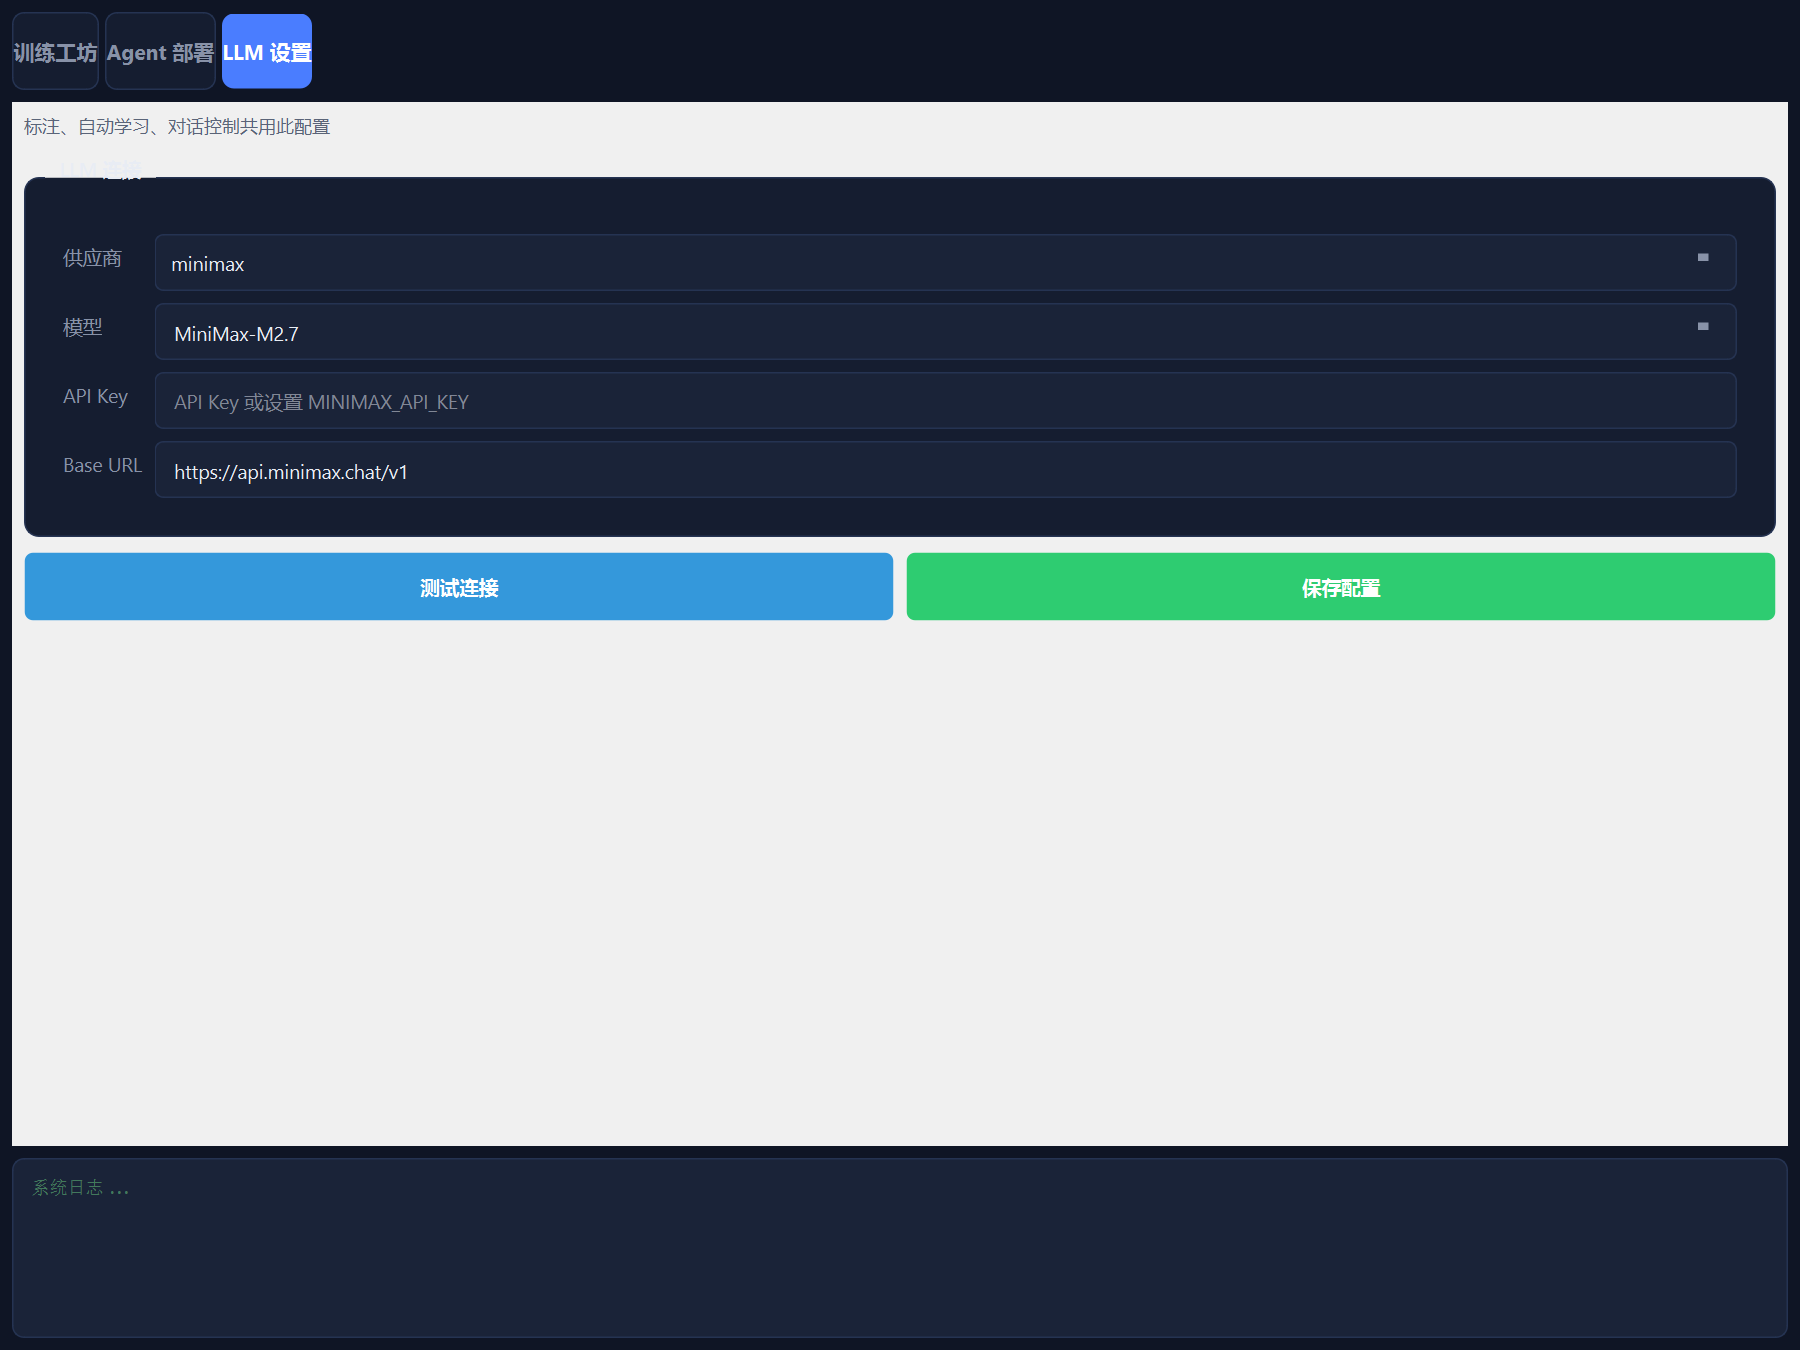
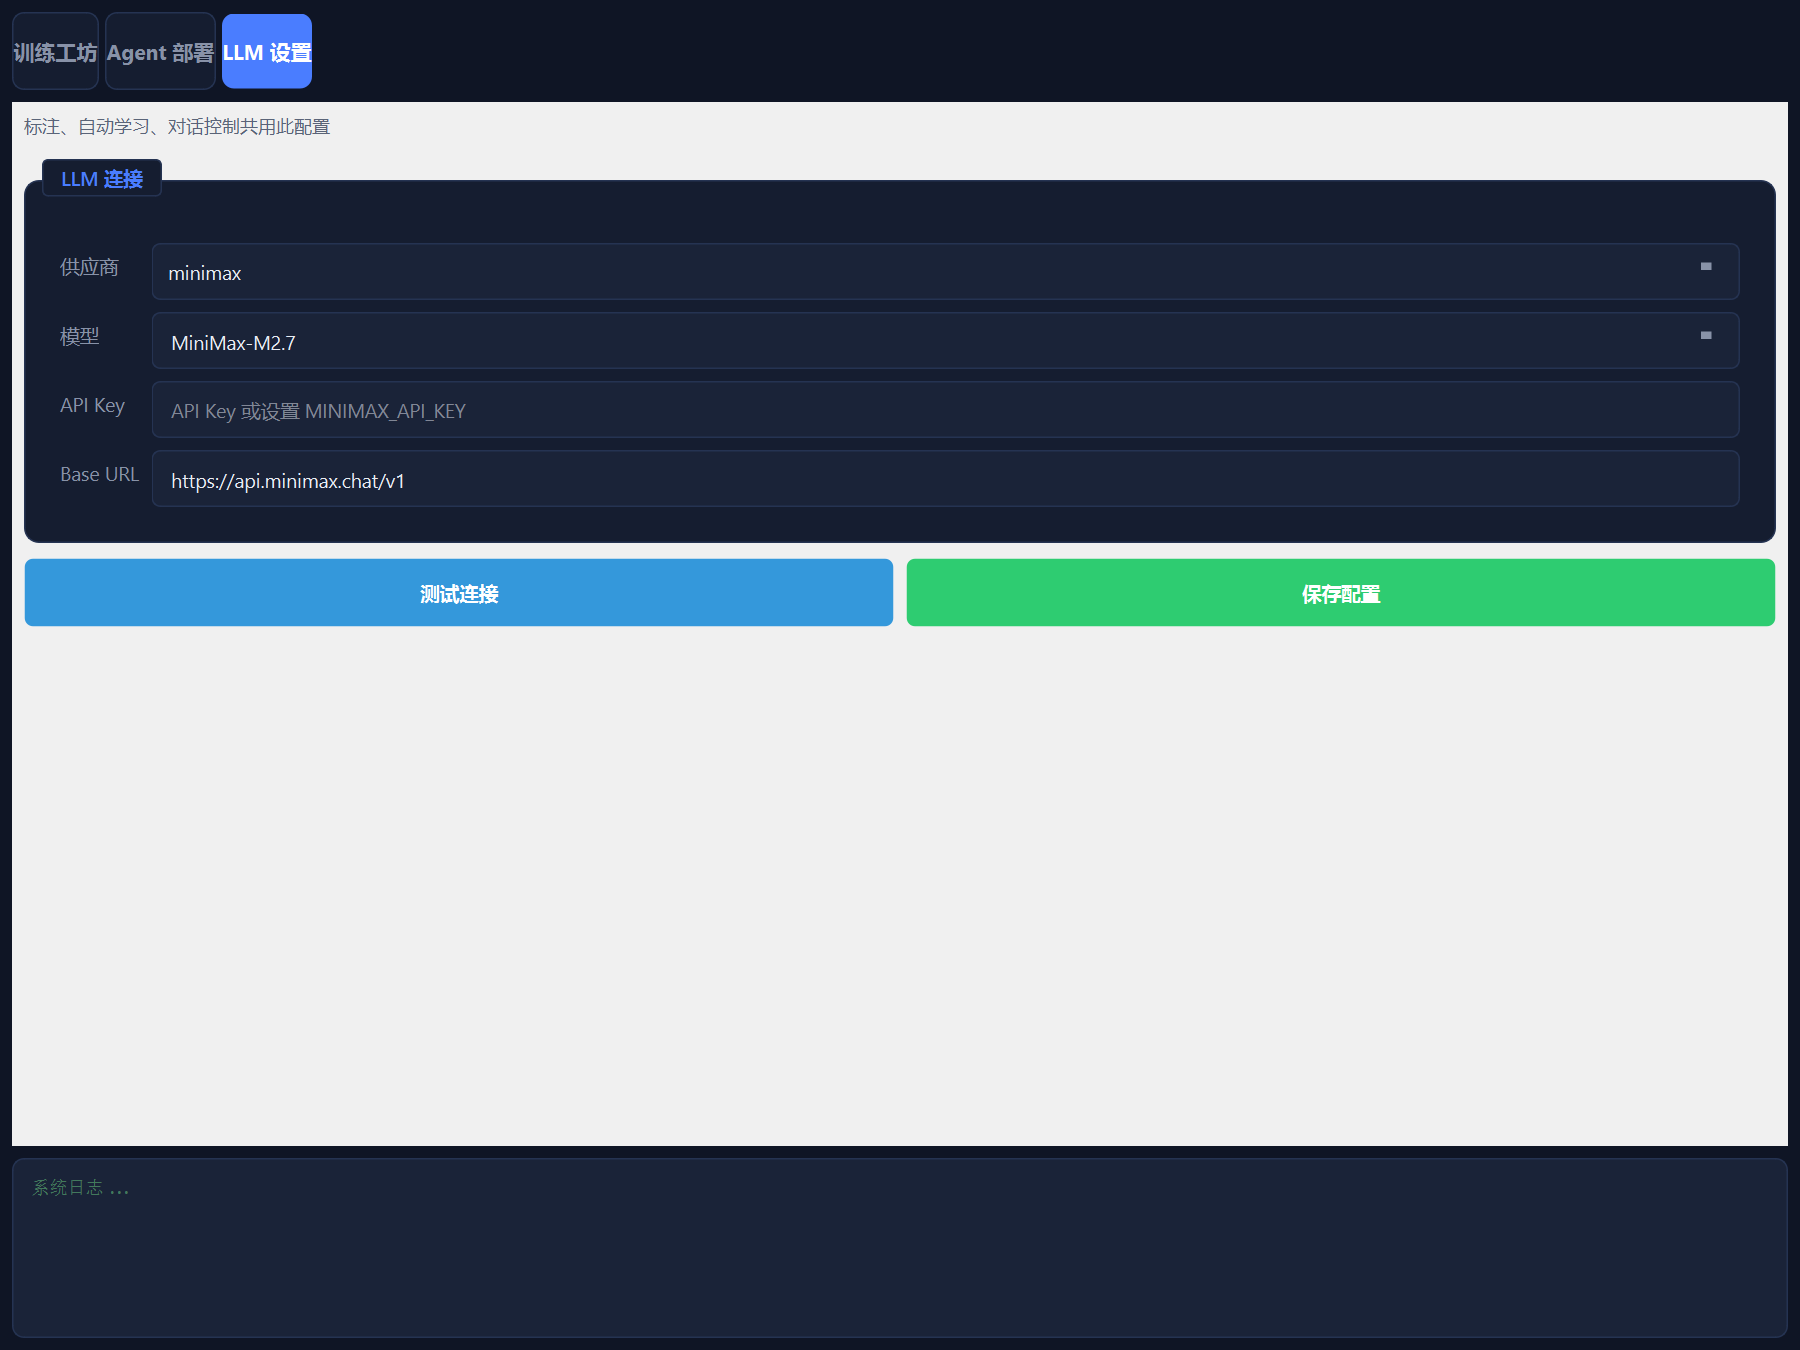
优化 GUI 布局：GroupBox标题可见、工坊面板紧凑、Agent面板加宽
- GroupBox 标题改为蓝色加粗+带背景边框，不再被截断
- 训练工坊：描述移入场景分组、场景知识改为折叠、进度与见解合并
- Agent 部署：左侧控件区加宽，比例调整
- 更新界面截图

diff --git a/vision_agent/gui/workshop_panel.py b/vision_agent/gui/workshop_panel.py
@@ -140,31 +140,41 @@ class WorkshopPanel(QWidget):
         layout.setSpacing(10)
 
         # ━━━ 场景管理 ━━━
-        scene_group = QGroupBox("场景")
-        sg = QHBoxLayout(scene_group)
-        sg.setSpacing(6)
+        scene_group = QGroupBox("场景管理")
+        sg_layout = QVBoxLayout(scene_group)
+        sg_layout.setSpacing(6)
 
+        scene_row = QHBoxLayout()
         self.scene_combo = QComboBox()
         self.scene_combo.setMinimumWidth(160)
         self.scene_combo.setToolTip("选择或创建训练场景")
         self.scene_combo.currentTextChanged.connect(self._on_scene_selected)
-        sg.addWidget(self.scene_combo, 1)
+        scene_row.addWidget(self.scene_combo, 1)
 
         self.new_scene_btn = QPushButton("+ 新建")
         self.new_scene_btn.setObjectName("startBtn")
         self.new_scene_btn.setCursor(Qt.PointingHandCursor)
         self.new_scene_btn.clicked.connect(self._new_scene)
-        sg.addWidget(self.new_scene_btn)
+        scene_row.addWidget(self.new_scene_btn)
 
         self.delete_scene_btn = QPushButton("删除")
         self.delete_scene_btn.setObjectName("stopBtn")
         self.delete_scene_btn.setCursor(Qt.PointingHandCursor)
         self.delete_scene_btn.clicked.connect(self._delete_scene)
-        sg.addWidget(self.delete_scene_btn)
+        scene_row.addWidget(self.delete_scene_btn)
+        sg_layout.addLayout(scene_row)
+
+        # 场景描述（移入场景分组）
+        desc_row = QHBoxLayout()
+        desc_row.addWidget(QLabel("描述"))
+        self.description_input = QLineEdit()
+        self.description_input.setPlaceholderText("场景描述（可选，如：王者荣耀5v5团战）")
+        desc_row.addWidget(self.description_input, 1)
+        sg_layout.addLayout(desc_row)
 
         self.scene_status = QLabel("")
         self.scene_status.setStyleSheet(f"color: {COLORS['text_dim']}; font-size: 11px;")
-        sg.addWidget(self.scene_status)
+        sg_layout.addWidget(self.scene_status)
 
         layout.addWidget(scene_group)
 
@@ -249,18 +259,9 @@ class WorkshopPanel(QWidget):
 
         layout.addWidget(source_group)
 
-        # 场景描述
-        desc_row = QHBoxLayout()
-        desc_row.addWidget(QLabel("描述"))
-        self.description_input = QLineEdit()
-        self.description_input.setPlaceholderText("场景描述（可选，如：王者荣耀5v5团战）")
-        desc_row.addWidget(self.description_input, 1)
-        layout.addLayout(desc_row)
-
-        # ━━━ 场景知识 ━━━
-        knowledge_group = QGroupBox("场景知识（可选，提升 LLM 分析准确度）")
-        kg = QVBoxLayout(knowledge_group)
-        kg.setSpacing(4)
+        # ━━━ 场景知识（折叠） ━━━
+        knowledge_section = CollapsibleSection("场景知识（可选，提升 LLM 分析准确度）")
+        kg = knowledge_section.content_layout()
 
         kb_btn_row = QHBoxLayout()
         self.kb_import_btn = QPushButton("导入文件")
@@ -282,18 +283,17 @@ class WorkshopPanel(QWidget):
         kg.addLayout(kb_btn_row)
 
         self.knowledge_input = QTextEdit()
-        self.knowledge_input.setMaximumHeight(120)
+        self.knowledge_input.setMaximumHeight(100)
         self.knowledge_input.setPlaceholderText(
             "输入或导入场景规则/教程，例如：\n"
             "• 这是王者荣耀5v5 MOBA 游戏\n"
             "• 核心操作：普攻、技能1/2/3、闪现、回城\n"
-            "• 血量低于30%应回城或撤退\n"
             "支持导入 .txt / .md / .json / .yaml 文件"
         )
         self.knowledge_input.textChanged.connect(self._on_knowledge_changed)
         kg.addWidget(self.knowledge_input)
 
-        layout.addWidget(knowledge_group)
+        layout.addWidget(knowledge_section)
 
         # ━━━ 核心操作 ━━━
         self.learn_btn = QPushButton("开始学习")
@@ -315,7 +315,7 @@ class WorkshopPanel(QWidget):
         self.stop_learn_btn.clicked.connect(self.stop_requested)
         layout.addWidget(self.stop_learn_btn)
 
-        # ━━━ 学习进度 ━━━
+        # ━━━ 学习进度 + 见解 ━━━
         progress_group = QGroupBox("学习进度")
         pg = QVBoxLayout(progress_group)
         pg.setSpacing(6)
@@ -330,20 +330,13 @@ class WorkshopPanel(QWidget):
         self.phase_label.setStyleSheet(f"color: {COLORS['accent']}; font-size: 12px;")
         pg.addWidget(self.phase_label)
 
-        layout.addWidget(progress_group)
-
-        # ━━━ LLM 见解 ━━━
-        insight_group = QGroupBox("LLM 见解")
-        ig = QVBoxLayout(insight_group)
-        ig.setSpacing(4)
-
         self.insight_text = QTextEdit()
         self.insight_text.setReadOnly(True)
-        self.insight_text.setMaximumHeight(120)
-        self.insight_text.setPlaceholderText("分析后显示 LLM 对视频内容的见解...")
-        ig.addWidget(self.insight_text)
+        self.insight_text.setMaximumHeight(100)
+        self.insight_text.setPlaceholderText("LLM 分析见解...")
+        pg.addWidget(self.insight_text)
 
-        layout.addWidget(insight_group)
+        layout.addWidget(progress_group)
 
         # ━━━ 模型管理 ━━━
         model_group = QGroupBox("训练产出")

diff --git a/vision_agent/gui/styles.py b/vision_agent/gui/styles.py
@@ -51,19 +51,25 @@ QGroupBox {{
     background-color: {COLORS['bg_card']};
     border: 1px solid {COLORS['border']};
     border-radius: 10px;
-    margin-top: 16px;
-    padding: 16px;
-    padding-top: 28px;
+    margin-top: 18px;
+    padding: 14px;
+    padding-top: 32px;
     color: {COLORS['text']};
     font-weight: 600;
     font-size: 13px;
 }}
 QGroupBox::title {{
     subcontrol-origin: margin;
-    left: 14px;
-    padding: 2px 8px;
+    subcontrol-position: top left;
+    left: 12px;
+    top: 4px;
+    padding: 3px 10px;
     font-size: 13px;
-    color: {COLORS['text']};
+    font-weight: 700;
+    color: {COLORS['accent']};
+    background-color: {COLORS['bg_card']};
+    border: 1px solid {COLORS['border']};
+    border-radius: 4px;
 }}
 
 /* ── 标签 ── */

diff --git a/vision_agent/gui/selfplay_panel.py b/vision_agent/gui/selfplay_panel.py
@@ -188,8 +188,9 @@ class SelfPlayPanel(QWidget):
 
         splitter.addWidget(left_scroll)
         splitter.addWidget(right)
-        splitter.setStretchFactor(0, 2)
-        splitter.setStretchFactor(1, 3)
+        splitter.setStretchFactor(0, 3)
+        splitter.setStretchFactor(1, 4)
+        splitter.setSizes([420, 560])
 
         root.addWidget(splitter)
 
